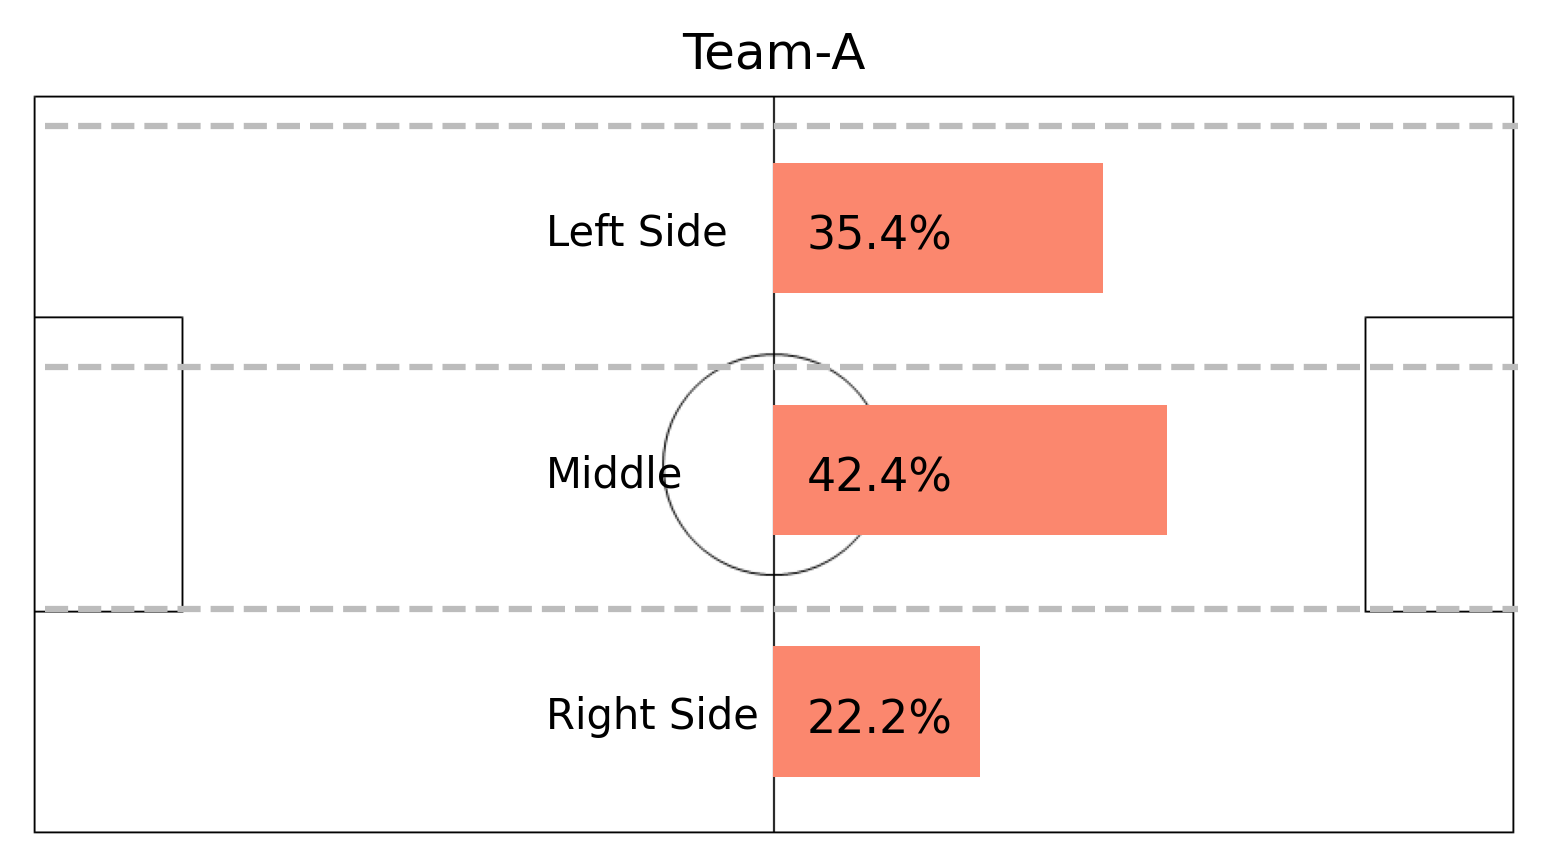
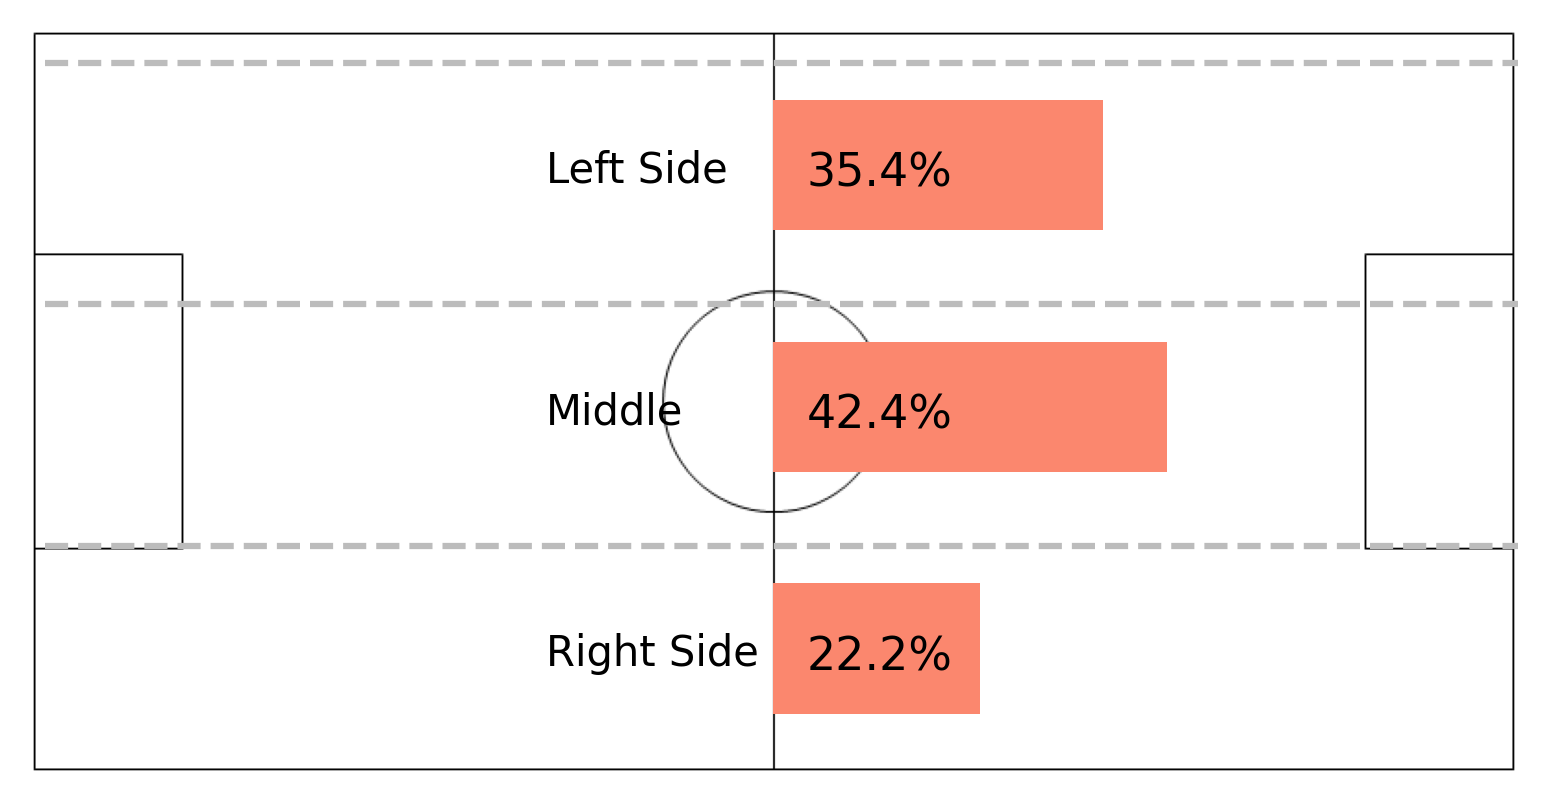
점유율 리포트 제목 삭제

diff --git a/hasball_report/hasball_report.py b/hasball_report/hasball_report.py
@@ -37,7 +37,7 @@ class possessionReport:
                                     bins=[0, 270, 540, 810], 
                                     labels=categories[::-1], ordered=True)
 
-        team_a_x = team_a['region_x'].value_counts(normalize=True).reindex(categories)*100 # 영역 비율 계산
+        team_a_x = team_a['region_x'].value_counts(normalize=True).reindxex(categories)*100 # 영역 비율 계산
         team_b_x = team_b['region_x'].value_counts(normalize=True).reindex(categories[::-1])*100 
 
         # 데이터 프레임 생성
@@ -61,7 +61,7 @@ class possessionReport:
             print('dir for possession report 1 created!')
         if len(glob(save_path+f"/{match_id}*"))==2:
             print('possession_report already exist!')
-            return glob(save_path+f"/{match_id}*")
+            return glob(save_path+f"/{match_id}-possession-lmr*")
         else:
             print('making possession report 1...')
             play_data_team_a,play_data_team_b=self.create_possession_frame()
@@ -99,13 +99,12 @@ class possessionReport:
                         ax.axhline(y=y_start + 90, xmin=0.01, xmax=5, color='#BCBCBC', linestyle='--')
 
                 ax.imshow(nuri_pitch, extent=[2.5, 802.5, 2.5, 402.5])
-                ax.set_title(f'{team_name}', fontsize=12)
                 ax.axis('off')
                 plt.savefig(f"{save_path}/{match_id}-possession-lmr-{team_name}.png",
                             dpi=300,
                             bbox_inches='tight')
             print('possession report 1 created!')
-            return glob(save_path+f"/{match_id}*")
+            return glob(save_path+f"/{match_id}-possession-lmr*")
 
 
     # 구역별 점유율 시각화 (세로 기준)
